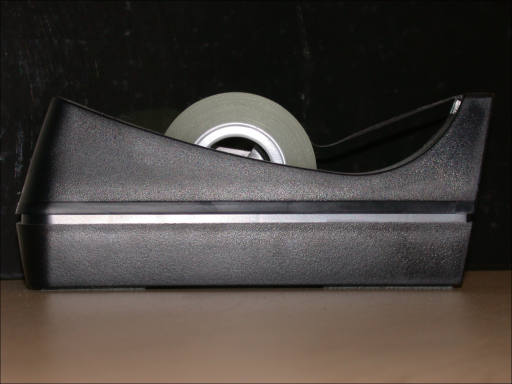
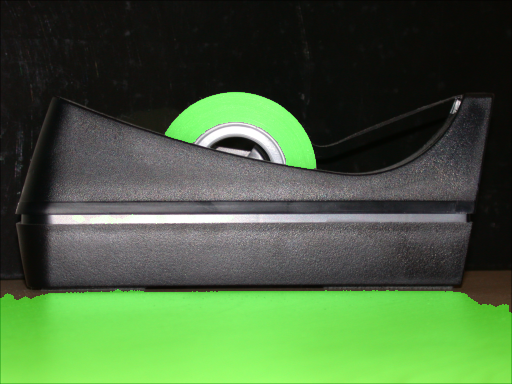
atualização no segment.py

Changed region(s): [[0.0, 0.75, 1.0, 1.0], [0.3125, 0.2188, 0.625, 0.4375]]

diff --git a/segment.py b/segment.py
@@ -6,37 +6,45 @@ import numpy as np
 
 
 def ensure_outputs():
+    """Garante que a pasta de saída existe"""
     os.makedirs('outputs', exist_ok=True)
 
 
 def parse_args():
+    """Configura e parseia os argumentos da linha de comando"""
     p = argparse.ArgumentParser(description='Segmentação simples: HSV e K-Means')
     p.add_argument('--input', required=True, help='Caminho para imagem de entrada')
-    p.add_argument('--method', choices=['hsv','kmeans'], default='hsv', help='Método de segmentação')
-
-    # HSV options
-    p.add_argument('--target', choices=['green','blue'], default='green', help='Alvo de cor (para hsv e kmeans)')
-    p.add_argument('--hmin', type=int, default=None)
-    p.add_argument('--hmax', type=int, default=None)
-    p.add_argument('--smin', type=int, default=None)
-    p.add_argument('--smax', type=int, default=None)
-    p.add_argument('--vmin', type=int, default=None)
-    p.add_argument('--vmax', type=int, default=None)
-
-    # KMeans options
-    p.add_argument('--k', type=int, default=2, help='Número de clusters para kmeans')
-
+    p.add_argument('--method', choices=['hsv','kmeans'], default='hsv', 
+                   help='Método de segmentação: hsv (baseado em cor) ou kmeans (agrupamento)')
+    
+    # Opções para ambos os métodos
+    p.add_argument('--target', choices=['green','blue'], default='green', 
+                   help='Cor alvo para segmentação: green ou blue')
+    
+    # Parâmetros específicos do HSV
+    p.add_argument('--hmin', type=int, default=None, help='Limite mínimo do matiz (Hue)')
+    p.add_argument('--hmax', type=int, default=None, help='Limite máximo do matiz (Hue)')
+    p.add_argument('--smin', type=int, default=None, help='Limite mínimo da saturação (Saturation)')
+    p.add_argument('--smax', type=int, default=None, help='Limite máximo da saturação (Saturation)')
+    p.add_argument('--vmin', type=int, default=None, help='Limite mínimo do valor (Value)')
+    p.add_argument('--vmax', type=int, default=None, help='Limite máximo do valor (Value)')
+    
+    # Parâmetros específicos do K-Means
+    p.add_argument('--k', type=int, default=2, help='Número de clusters para K-Means (2-4 recomendado)')
+    
     return p.parse_args()
 
 
-# valores padrão razoáveis (HSV com H em [0,179])
+# Valores padrão otimizados para segmentação de cores no espaço HSV
+# H: 0-179 (OpenCV), S: 0-255, V: 0-255
 DEFAULT_RANGES = {
-    'green': {'hmin':35, 'hmax':85, 'smin':40, 'smax':255, 'vmin':40, 'vmax':255},
-    'blue':  {'hmin':90, 'hmax':140, 'smin':40, 'smax':255, 'vmin':40, 'vmax':255},
+    'green': {'hmin': 35, 'hmax': 85, 'smin': 40, 'smax': 255, 'vmin': 40, 'vmax': 255},
+    'blue':  {'hmin': 90, 'hmax': 140, 'smin': 40, 'smax': 255, 'vmin': 40, 'vmax': 255},
 }
 
 
 def load_image(path):
+    """Carrega uma imagem do disco com verificação de erro"""
     img = cv2.imread(path, cv2.IMREAD_COLOR)
     if img is None:
         raise FileNotFoundError(f'Imagem não encontrada: {path}')
@@ -44,115 +52,179 @@ def load_image(path):
 
 
 def apply_hsv_segment(img, target, overrides):
+    """
+    Aplica segmentação baseada em cor no espaço HSV
+    
+    Args:
+        img: Imagem BGR de entrada
+        target: Cor alvo ('green' ou 'blue')
+        overrides: Valores personalizados para os limites HSV
+    
+    Returns:
+        Máscara binária com a região segmentada
+    """
+    # Conversão para HSV - mais robusto para segmentação por cor
     hsv = cv2.cvtColor(img, cv2.COLOR_BGR2HSV)
+    
+    # Combina valores padrão com overrides do usuário
     defaults = DEFAULT_RANGES[target]
-    hmin = defaults['hmin'] if overrides['hmin'] is None else overrides['hmin']
-    hmax = defaults['hmax'] if overrides['hmax'] is None else overrides['hmax']
-    smin = defaults['smin'] if overrides['smin'] is None else overrides['smin']
-    smax = defaults['smax'] if overrides['smax'] is None else overrides['smax']
-    vmin = defaults['vmin'] if overrides['vmin'] is None else overrides['vmin']
-    vmax = defaults['vmax'] if overrides['vmax'] is None else overrides['vmax']
-
+    hmin = overrides['hmin'] if overrides['hmin'] is not None else defaults['hmin']
+    hmax = overrides['hmax'] if overrides['hmax'] is not None else defaults['hmax']
+    smin = overrides['smin'] if overrides['smin'] is not None else defaults['smin']
+    smax = overrides['smax'] if overrides['smax'] is not None else defaults['smax']
+    vmin = overrides['vmin'] if overrides['vmin'] is not None else defaults['vmin']
+    vmax = overrides['vmax'] if overrides['vmax'] is not None else defaults['vmax']
+    
+    # Cria máscara baseada nos limites HSV
     lower = np.array([hmin, smin, vmin], dtype=np.uint8)
     upper = np.array([hmax, smax, vmax], dtype=np.uint8)
-
     mask = cv2.inRange(hsv, lower, upper)
-    # opções de pós-processamento simples: abrir e fechar para reduzir ruído
-    kernel = cv2.getStructuringElement(cv2.MORPH_ELLIPSE, (5,5))
-    mask = cv2.morphologyEx(mask, cv2.MORPH_OPEN, kernel, iterations=1)
-    mask = cv2.morphologyEx(mask, cv2.MORPH_CLOSE, kernel, iterations=1)
+    
+    # Pós-processamento morfológico para reduzir ruído
+    kernel = cv2.getStructuringElement(cv2.MORPH_ELLIPSE, (5, 5))
+    mask = cv2.morphologyEx(mask, cv2.MORPH_OPEN, kernel, iterations=1)   # Remove ruídos pequenos
+    mask = cv2.morphologyEx(mask, cv2.MORPH_CLOSE, kernel, iterations=1)  # Preenche buracos pequenos
+    
     return mask
 
 
 def apply_kmeans_segment(img, k, target):
-    # converte para HSV para medir distância de cor com H,S,V
+    """
+    Aplica segmentação usando algoritmo K-Means para agrupamento de pixels
+    
+    Args:
+        img: Imagem BGR de entrada
+        k: Número de clusters
+        target: Cor alvo para selecionar o cluster
+    
+    Returns:
+        Máscara binária com a região segmentada
+    """
+    # Conversão para HSV - melhor para comparação de cores
     hsv = cv2.cvtColor(img, cv2.COLOR_BGR2HSV)
-    h,w,_ = hsv.shape
-    samples = hsv.reshape((-1,3)).astype(np.float32)
-
-    # critérios e execução
+    height, width, _ = hsv.shape
+    
+    # Prepara dados para K-Means (reshape para lista de pixels)
+    samples = hsv.reshape((-1, 3)).astype(np.float32)
+    
+    # Configura critérios de parada do algoritmo
     criteria = (cv2.TERM_CRITERIA_EPS + cv2.TERM_CRITERIA_MAX_ITER, 50, 1.0)
+    
+    # Executa K-Means
     _, labels, centers = cv2.kmeans(samples, k, None, criteria, 10, cv2.KMEANS_PP_CENTERS)
-
+    
     centers = centers.astype(np.uint8)
     labels = labels.flatten()
-
-    # determinar cor alvo em HSV (usando valores médios dos defaults)
-    d = DEFAULT_RANGES[target]
-    target_h = int((d['hmin'] + d['hmax'])/2)
-    target_s = int((d['smin'] + d['smax'])/2)
-    target_v = int((d['vmin'] + d['vmax'])/2)
+    
+    # Define cor alvo baseada nos valores padrão do HSV
+    defaults = DEFAULT_RANGES[target]
+    target_h = int((defaults['hmin'] + defaults['hmax']) / 2)
+    target_s = int((defaults['smin'] + defaults['smax']) / 2)
+    target_v = int((defaults['vmin'] + defaults['vmax']) / 2)
     target_vec = np.array([target_h, target_s, target_v], dtype=np.int32)
-
-    # encontrar centroide mais próximo
-    dists = np.linalg.norm(centers.astype(np.int32) - target_vec, axis=1)
-    chosen_cluster = int(np.argmin(dists))
-
+    
+    # Encontra o cluster mais próximo da cor alvo
+    distances = np.linalg.norm(centers.astype(np.int32) - target_vec, axis=1)
+    chosen_cluster = int(np.argmin(distances))
+    
+    # Cria máscara baseada no cluster escolhido
     mask = (labels == chosen_cluster).astype(np.uint8) * 255
-    mask = mask.reshape((h,w))
-
-    # pós-processamento
-    kernel = cv2.getStructuringElement(cv2.MORPH_ELLIPSE, (5,5))
+    mask = mask.reshape((height, width))
+    
+    # Pós-processamento para melhorar qualidade da máscara
+    kernel = cv2.getStructuringElement(cv2.MORPH_ELLIPSE, (5, 5))
     mask = cv2.morphologyEx(mask, cv2.MORPH_OPEN, kernel, iterations=1)
     mask = cv2.morphologyEx(mask, cv2.MORPH_CLOSE, kernel, iterations=1)
-
+    
     return mask
 
 
-def save_outputs(input_path, img, mask):
+def save_outputs(input_path, img, mask, target):
+    """
+    Salva a máscara e imagem com overlay
+    
+    Args:
+        input_path: Caminho da imagem original
+        img: Imagem original
+        mask: Máscara binária
+        target: Cor alvo para o overlay
+    
+    Returns:
+        Tupla com caminhos dos arquivos salvos
+    """
     base = os.path.splitext(os.path.basename(input_path))[0]
     mask_path = os.path.join('outputs', f'{base}_mask.png')
     overlay_path = os.path.join('outputs', f'{base}_overlay.png')
-
+    
+    # Salva máscara
     cv2.imwrite(mask_path, mask)
-
-    # criar overlay colorido sem conflito de dimensões
+    
+    # Prepara cores para overlay baseado no target
+    colors = {
+        'green': (0, 255, 0),   # Verde em BGR
+        'blue': (255, 0, 0)     # Azul em BGR
+    }
+    color = colors.get(target, (0, 255, 0))
+    alpha = 0.5  # Transparência do overlay
+    
+    # Cria overlay colorizado apenas nas regiões segmentadas
     overlay = img.copy()
-    color = (0, 255, 0)  # verde padrão (BGR)
-    alpha = 0.5
-
-    # cria uma imagem inteira da cor de overlay
-    color_img = np.full_like(img, color, dtype=np.uint8)
-
-    # aplica o blend em toda a imagem
-    blended = cv2.addWeighted(img, 1 - alpha, color_img, alpha, 0)
-
-    # aplica apenas onde a máscara é verdadeira
-    mask_3d = cv2.merge([mask, mask, mask])  # converte máscara para 3 canais
-    overlay = np.where(mask_3d > 0, blended, img)
-
+    
+    # Cria imagem colorida e aplica blend apenas na região da máscara
+    color_mask = np.zeros_like(img)
+    color_mask[mask > 0] = color
+    
+    # Aplica transparência apenas nas regiões segmentadas
+    overlay = cv2.addWeighted(overlay, 1.0, color_mask, alpha, 0)
+    
     cv2.imwrite(overlay_path, overlay)
     return mask_path, overlay_path
 
 
 def main():
+    """Função principal do aplicativo"""
     args = parse_args()
     ensure_outputs()
-    start = time.time()
-
-    img = load_image(args.input)
-
-    overrides = {k: getattr(args, k) for k in ['hmin','hmax','smin','smax','vmin','vmax']}
-
-    if args.method == 'hsv':
-        mask = apply_hsv_segment(img, args.target, overrides)
-    else:
-        mask = apply_kmeans_segment(img, args.k, args.target)
-
-    mask_path, overlay_path = save_outputs(args.input, img, mask)
-
-    elapsed = time.time() - start
-    pct = 100.0 * (np.count_nonzero(mask) / mask.size)
-
-    print(f'Entrada: {args.input}')
-    print(f'Método: {args.method} (target={args.target})')
-    if args.method == 'kmeans':
-        print(f'k = {args.k}')
-    print(f'Máscara salva: {mask_path}')
-    print(f'Overlay salvo: {overlay_path}')
-    print(f'Tempo: {elapsed:.3f}s')
-    print(f'Pixels segmentados: {pct:.2f}%')
+    start_time = time.time()
+    
+    try:
+        # Carrega e processa imagem
+        img = load_image(args.input)
+        
+        # Prepara parâmetros para segmentação
+        overrides = {k: getattr(args, k) for k in ['hmin','hmax','smin','smax','vmin','vmax']}
+        
+        # Aplica método de segmentação escolhido
+        if args.method == 'hsv':
+            mask = apply_hsv_segment(img, args.target, overrides)
+        else:
+            mask = apply_kmeans_segment(img, args.k, args.target)
+        
+        # Salva resultados
+        mask_path, overlay_path = save_outputs(args.input, img, mask, args.target)
+        
+        # Calcula métricas e exibe resultados
+        elapsed_time = time.time() - start_time
+        segmented_pixels = np.count_nonzero(mask)
+        total_pixels = mask.size
+        percentage = 100.0 * segmented_pixels / total_pixels
+        
+        print(f'\n=== RESULTADOS DA SEGMENTAÇÃO ===')
+        print(f'Entrada: {args.input}')
+        print(f'Método: {args.method.upper()} (alvo: {args.target})')
+        if args.method == 'kmeans':
+            print(f'Número de clusters (k): {args.k}')
+        print(f'Pixels segmentados: {segmented_pixels:,} / {total_pixels:,} ({percentage:.2f}%)')
+        print(f'Tempo de processamento: {elapsed_time:.3f}s')
+        print(f'Máscara salva: {mask_path}')
+        print(f'Overlay salvo: {overlay_path}')
+        
+    except Exception as e:
+        print(f'Erro durante processamento: {e}')
+        return 1
+    
+    return 0
 
 
 if __name__ == '__main__':
-    main()
+    exit(main())
